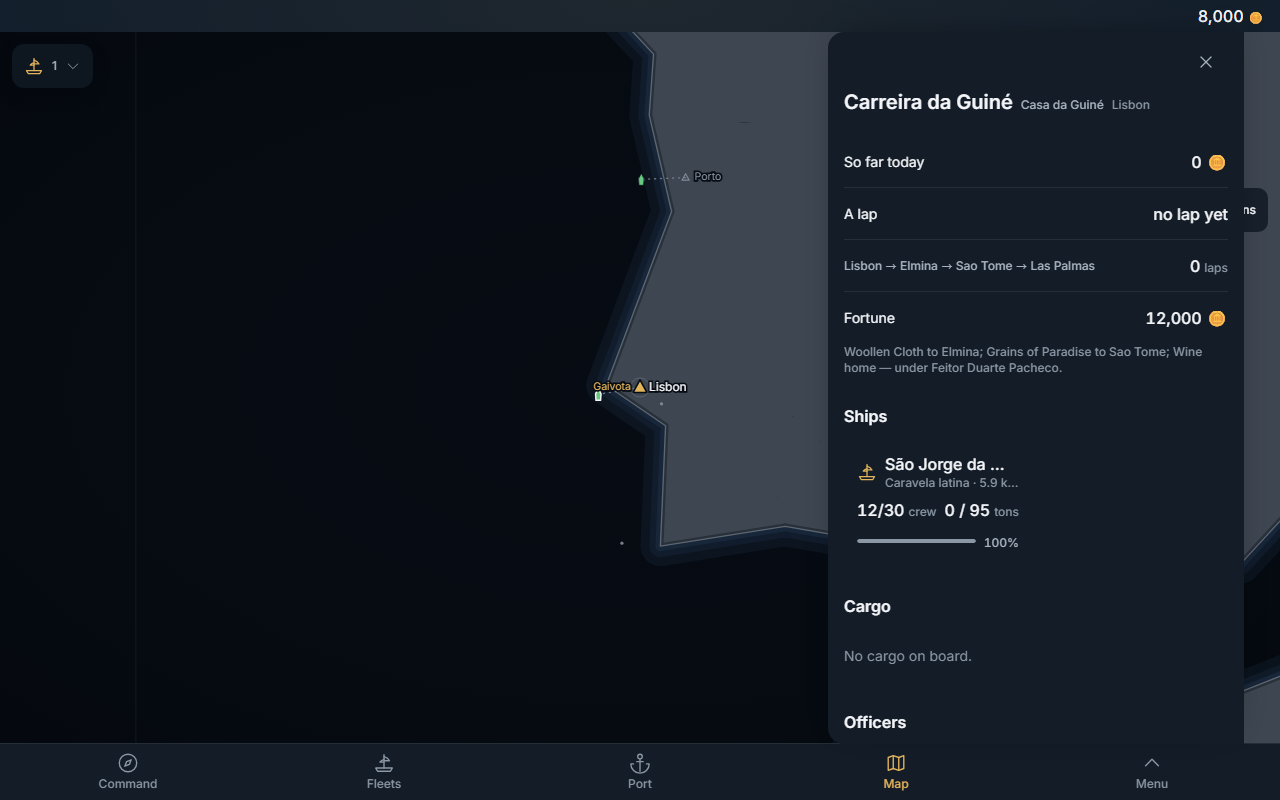
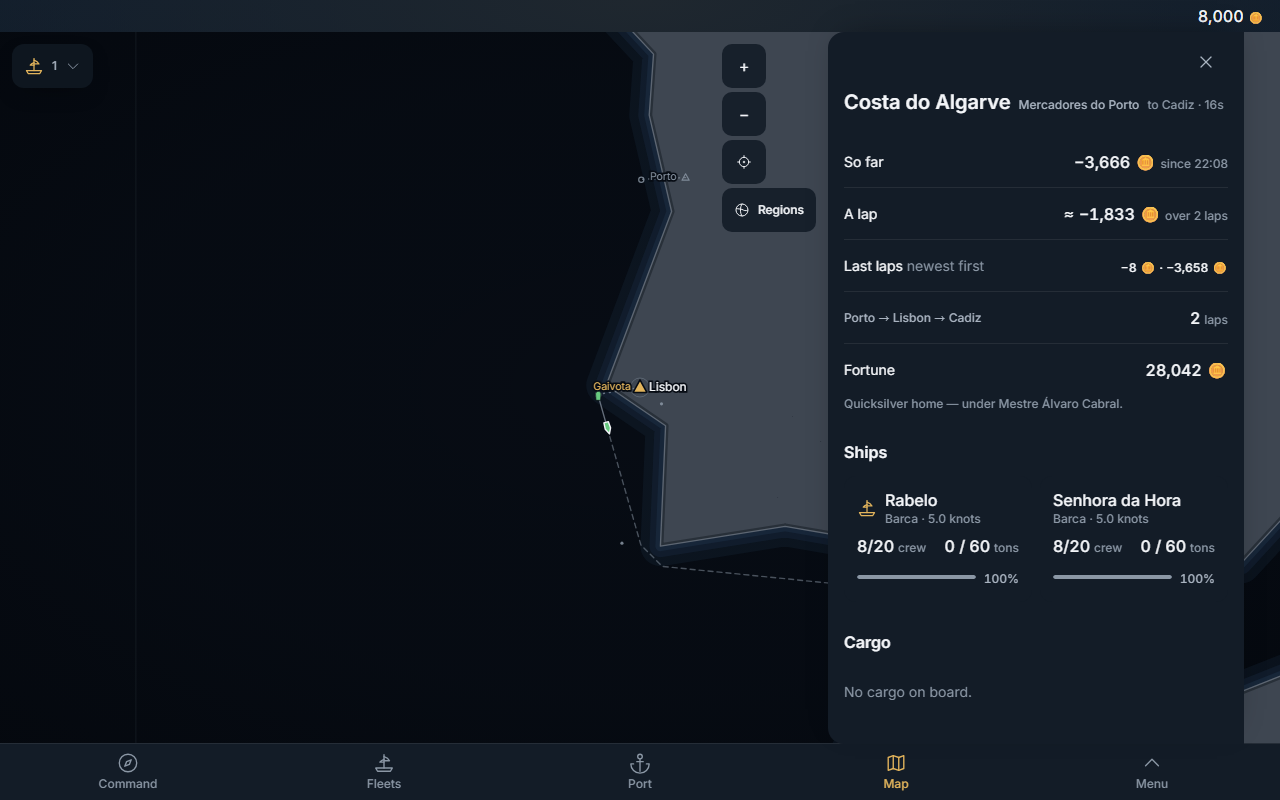
The merchant spec proves the new placement rules, and stops racing a moving hull
THREE NEW UNIT CLAIMS, each of which goes red on the code as it stood: the open merchant's POSITION
is the beat's and only her polyline comes from the card; a card that does not hold the served
segment lends nothing; merchants at one berth are fanned so all three can be opened, and a dot city
keeps the tap on its own mark.

A FLAKE, FOUND AND REMOVED. A hull at sea drifts every frame, so a click aimed at a box measured a
moment earlier can land beside her — and if she has drifted over one of YOUR fleets the chart gives
the tap to your fleet, which is correct behaviour and a race the suite lost about one run in five
(it opened `Gaivota · Lisbon`). The tap is aimed again at her new place, with whatever else it
selected closed first, instead of being asserted once and hoped for.

AND THE SCREENSHOTS SAY SOMETHING. The owner's reading of merchant-sheet-1280.png was that it showed
`0` and `no lap yet`. The fixture now warps SIX legs rather than three — three closed one lap, and
one lap is exactly what route_earnings refuses to average — and asserts that at least one route has
two closed laps; the spec opens a merchant whose sheet has a figure if any hull on the glass has.
Every shot is re-taken: the zoom column and Regions stand clear of the sheet at 1280, the handle's
focus ring is the handle's, `A lap ≈ … over 2 laps`, `So far · since 22:08`, `Last laps newest
first`.

10/10 against a vite preview of this build.
[…]

diff --git a/tests/map.merchants.spec.ts b/tests/map.merchants.spec.ts
@@ -73,13 +73,82 @@ test('merchants live in their own list and nothing about your fleets sees them',
   expect(traffic[1].berthCode).toBe('LIS')
   // NO TRACK for a merchant served the current segment only; one for the open merchant's full course
   expect(withTraffic.traffic[0].track).toBeNull()
-  const open = mapTrafficOf(rows, {
+  const openRows = [sailingRow('m-1', [[38.6, -9.4], [36, -12]], [37.1, -11.3]), dockedRow]
+  const open = mapTrafficOf(openRows, {
     id: 'm-1',
-    voyage: { ...rows[0].voyage!, id: 'v-1', course: [[38.6, -9.4], [36, -12], [32.6, -16.95]] },
+    voyage: { ...openRows[0].voyage!, course: [[38.6, -9.4], [36, -12], [32.6, -16.95]] },
   })
   const openModel = buildChartModel([OWN], [LIS, FNC], [], null, open)
   expect(openModel.traffic[0].track).not.toBeNull()
   expect(openModel.traffic[1].track).toBeNull()
+})
+
+// THE CARD LENDS A TRACK AND NEVER A POSITION. The card is re-asked on the beat and lands after it,
+// so a selected hull placed from the card's own voyage stepped BACKWARDS on every beat and then
+// leapt forward when the new card arrived (measured at 390: -25.2 / -20.0 / -6.5 px, each followed
+// ~70 ms later by a +20.9..+24.6 px leap; no unselected hull ever moved backwards). These two hold
+// the rule: the position is the beat's, the polyline may be the card's, and a card that does not
+// contain the served segment lends nothing at all.
+test('the open merchant takes her TRACK from the card and her POSITION from the beat', () => {
+  const row = sailingRow('m-1', [[38.6, -9.4], [36, -12]], [37.1, -11.3])
+  const stale = {
+    ...row.voyage!,
+    course: [[38.6, -9.4], [36, -12], [32.6, -16.95]] as [number, number][],
+    // the card is a beat behind AND further along: neither figure may reach the chart
+    position: { ...row.voyage!.position!, seg_index: 1, leg_frac: 0.8, lat: 34.2, lon: -14.1 },
+  }
+  const [m] = mapTrafficOf([row], { id: 'm-1', voyage: stale })
+  if (m.kind !== 'sailing') throw new Error('the probe merchant is at sea')
+  expect(m.voyage.at).toEqual({ lat: 37.1, lon: -11.3 })
+  expect(m.voyage.legFrac).toBe(0.25)
+  // the WHOLE course, with the served segment located inside it
+  expect(m.voyage.course).toHaveLength(3)
+  expect(m.voyage.segIndex).toBe(0)
+  const model = buildChartModel([OWN], [LIS, FNC], [], null, [m])
+  expect(model.traffic[0].at).toEqual({ lat: 37.1, lon: -11.3 })
+  expect(model.traffic[0].track).not.toBeNull()
+})
+
+test('a card that does not hold the served segment lends nothing', () => {
+  // she has moved on to the next leg; the card still carries the one before it
+  const row = sailingRow('m-1', [[36, -12], [32.6, -16.95]], [34, -14])
+  const behind = {
+    ...row.voyage!,
+    course: [[38.6, -9.4], [36, -12]] as [number, number][],
+    position: { ...row.voyage!.position!, lat: 38, lon: -10 },
+  }
+  const [m] = mapTrafficOf([row], { id: 'm-1', voyage: behind })
+  if (m.kind !== 'sailing') throw new Error('the probe merchant is at sea')
+  expect(m.voyage.course).toEqual([{ lat: 36, lon: -12 }, { lat: 32.6, lon: -16.95 }])
+  expect(m.voyage.at).toEqual({ lat: 34, lon: -14 })
+  expect(m.voyage.segIndex).toBe(0)
+})
+
+test('merchants lying at one berth are fanned, and the harbour keeps its own dot', () => {
+  const second: TrafficFleet = { ...dockedRow, id: 'm-dock-2', name: 'Prova Doca II' }
+  const third: TrafficFleet = { ...dockedRow, id: 'm-dock-3', name: 'Prova Doca III' }
+  const traffic = mapTrafficOf([dockedRow, second, third])
+  // the first lies exactly where the server put her; the others take their own places
+  expect(traffic.map((t) => t.berthIndex)).toEqual([0, 1, 2])
+  const at = traffic.map((t) => (t.kind === 'anchored' ? `${t.at.lat},${t.at.lon}` : 'sailing'))
+  expect(at[0]).toBe('38.6,-9.4')
+  expect(new Set(at).size).toBe(3)
+  // and each of the three can be opened from the chart, which a stack of three could not be
+  const model = buildChartModel([], [LIS, FNC], [], null, traffic)
+  const opened = new Set<string>()
+  for (const t of model.traffic) {
+    const hit = hitTest(model, [], project(t.at), 1)
+    if (hit?.kind === 'merchant') opened.add(hit.id)
+  }
+  expect(opened).toEqual(new Set(['m-dock', 'm-dock-2', 'm-dock-3']))
+  // THE DOT CITY KEEPS ITS TAP: Lisbon is drawn as a dot, a merchant is moored on it, and a tap on
+  // the mark opens the PORT — the hull answers only at the dot's own reach.
+  const onLisbon = mapTrafficOf([{ ...dockedRow, roadstead: [LIS.lat, LIS.lon] }])
+  const dotModel = buildChartModel([], [LIS, FNC], [], null, onLisbon)
+  expect(hitTest(dotModel, [], project({ lat: LIS.lat, lon: LIS.lon }), 40, [LIS], 20)).toEqual({
+    kind: 'port',
+    code: 'LIS',
+  })
 })
 
 test('an own fleet wins a tie with a merchant; a merchant wins over open water', () => {
@@ -115,29 +184,96 @@ async function merchantsInView(page: Page): Promise<{ total: number; inView: num
 
 
 /** A merchant hull whose centre is on the chart's glass, so a tap can land on it. */
-async function hullInView(page: Page, sailing: boolean | null): Promise<string> {
-  const id = await page.evaluate((wantSailing) => {
-    const chart = document.querySelector('[data-testid="map-chart"]')!.getBoundingClientRect()
-    for (const h of document.querySelectorAll('[data-testid="map-merchant"]')) {
-      if (wantSailing !== null && (h.getAttribute('data-merchant-docked') === 'false') !== wantSailing) continue
-      const r = h.getBoundingClientRect()
-      const cx = r.left + r.width / 2
-      const cy = r.top + r.height / 2
-      if (cx > chart.left + 60 && cx < chart.right - 120 && cy > chart.top + 100 && cy < chart.bottom - 120) {
-        return h.getAttribute('data-merchant-id')
+async function hullInView(page: Page, sailing: boolean | null, skip: ReadonlySet<string> = new Set()): Promise<string> {
+  const id = await page.evaluate(
+    ({ wantSailing, seen }) => {
+      const chart = document.querySelector('[data-testid="map-chart"]')!.getBoundingClientRect()
+      for (const h of document.querySelectorAll('[data-testid="map-merchant"]')) {
+        if (wantSailing !== null && (h.getAttribute('data-merchant-docked') === 'false') !== wantSailing) continue
+        const mid = h.getAttribute('data-merchant-id')
+        if (mid && seen.includes(mid)) continue
+        const r = h.getBoundingClientRect()
+        const cx = r.left + r.width / 2
+        const cy = r.top + r.height / 2
+        if (cx > chart.left + 60 && cx < chart.right - 120 && cy > chart.top + 100 && cy < chart.bottom - 120) {
+          return mid
+        }
       }
-    }
-    return null
-  }, sailing)
-  if (!id) throw new Error(`no ${sailing === null ? '' : sailing ? 'sailing ' : 'docked '}merchant hull on the glass`)
-  return id
+      return null
+    },
+    { wantSailing: sailing, seen: [...skip] },
+  )
+  if (!id && skip.size === 0) {
+    throw new Error(`no ${sailing === null ? '' : sailing ? 'sailing ' : 'docked '}merchant hull on the glass`)
+  }
+  return id ?? ''
 }
 
-/** Tap a merchant hull where it is drawn NOW (it drifts between frames). */
+/**
+ * Open a merchant the record can say something about — one with a LAP AVERAGE on her sheet.
+ *
+ * The owner read `docs/npc-traders/merchant-sheet-1280.png` on 2026-10-08 and found an earnings
+ * sheet showing `0` and `no lap yet`: a true reading of a merchant that had not finished anything,
+ * and a useless picture of the feature. The fixture warps a few legs, so WHICH merchants have laps
+ * behind them depends on their loops; this tries the hulls on the glass until one of them has a
+ * figure, and settles for the last one if none has (the shot is still taken, the test still
+ * passes — a screenshot is not an assertion).
+ *
+ * Returns the id that is open.
+ */
+async function openMerchantWorthReading(page: Page, sailing: boolean | null): Promise<string> {
+  const tried = new Set<string>()
+  let last = ''
+  for (let attempt = 1; attempt <= 3; attempt++) {
+    const id = await hullInView(page, sailing, tried)
+    if (!id) break
+    tried.add(id)
+    last = id
+    await tapHull(page, id)
+    await expect(page.getByTestId('merchant-sheet-body')).toBeVisible({ timeout: 60_000 })
+    const lap = await page.getByTestId('merchant-earnings-lap').textContent()
+    // a lap average is printed as `≈ <figure>`; the two absences say so in words
+    if (lap && lap.includes('≈')) return id
+    // Only give this one up for a candidate that EXISTS: closing the sheet and then finding nothing
+    // else on the glass would leave the caller with no sheet at all, which is how this helper went
+    // red on its first run.
+    if (attempt === 3 || !(await hullInView(page, sailing, tried))) break
+    const close = page.getByTestId('tray-close')
+    if (await close.isVisible().catch(() => false)) await close.click()
+  }
+  if (!last) throw new Error('no merchant hull on the glass to open')
+  // Whatever the path above took, the caller is handed an OPEN sheet.
+  if (!(await page.getByTestId('merchant-sheet').isVisible().catch(() => false))) await tapHull(page, last)
+  await expect(page.getByTestId('merchant-sheet-body')).toBeVisible({ timeout: 60_000 })
+  return last
+}
+
+/**
+ * Tap a merchant hull where it is drawn NOW, and PROVE the tap landed on her.
+ *
+ * A hull at sea drifts every frame, so a click aimed at a box measured a moment ago can land beside
+ * her — and if she has drifted over one of YOUR fleets, the chart gives the tap to your fleet by its
+ * own tie rule (hitTest.ts: an own fleet wins a tie). That is correct behaviour and a race this
+ * suite used to lose about one run in five, opening `Gaivota · Lisbon` instead of the sheet. So the
+ * tap is AIMED AGAIN at her new place, with whatever else it selected closed first, instead of
+ * being asserted once and hoped for.
+ */
 async function tapHull(page: Page, id: string): Promise<void> {
-  const box = await page.locator(`[data-merchant-id="${id}"]`).boundingBox()
-  if (!box) throw new Error('the hull has no box')
-  await page.mouse.click(box.x + box.width / 2, box.y + box.height / 2)
+  const sheet = page.getByTestId('merchant-sheet')
+  for (let aim = 1; aim <= 6; aim++) {
+    const box = await page.locator(`[data-merchant-id="${id}"]`).boundingBox()
+    if (!box) throw new Error(`merchant ${id} has no hull on the glass`)
+    await page.mouse.click(box.x + box.width / 2, box.y + box.height / 2)
+    try {
+      await sheet.waitFor({ state: 'visible', timeout: 3_000 })
+      return
+    } catch {
+      // something else took the tap: close it, and aim at where she is now.
+      const close = page.getByTestId('tray-close')
+      if (await close.isVisible().catch(() => false)) await close.click()
+    }
+  }
+  throw new Error(`six taps at merchant ${id} never opened her sheet`)
 }
 
 test('the merchants sail on the chart, and a tap opens a read-only sheet', async ({ page, request, baseURL }) => {
@@ -160,8 +296,9 @@ test('the merchants sail on the chart, and a tap opens a read-only sheet', async
   const t0 = await hull.getAttribute('transform')
   await expect.poll(async () => hull.getAttribute('transform'), { timeout: 30_000 }).not.toBe(t0)
 
-  // A TAP OPENS THE SHEET — and never the player's own fleet tray.
-  await tapHull(page, sailingId)
+  // A TAP OPENS THE SHEET — and never the player's own fleet tray. The merchant opened is one with
+  // something in her books if any hull on the glass has (the shots below are the feature's record).
+  await openMerchantWorthReading(page, true)
   const sheet = page.getByTestId('merchant-sheet')
   await expect(sheet).toBeVisible({ timeout: 30_000 })
   await expect(page.getByTestId('map-detail-tray')).toHaveCount(0)
@@ -225,9 +362,9 @@ test.describe('wide', () => {
     await ready(page)
     await expect.poll(async () => (await merchantsInView(page)).inView, { timeout: 60_000 }).toBeGreaterThanOrEqual(2)
     await page.screenshot({ path: path.join(SHOTS, 'map-merchants-1280.png') })
-    // the wide frame sits close on Lisbon: whichever merchant is on the glass, at sea or at anchor
-    await tapHull(page, await hullInView(page, null))
-    await expect(page.getByTestId('merchant-sheet-body')).toBeVisible({ timeout: 60_000 })
+    // the wide frame sits close on Lisbon: whichever merchant is on the glass, at sea or at anchor —
+    // preferring one whose sheet has a lap figure to show (see openMerchantWorthReading)
+    await openMerchantWorthReading(page, null)
     await page.waitForTimeout(800)
     await page.screenshot({ path: path.join(SHOTS, 'merchant-sheet-1280.png') })
   })

diff --git a/tests/npcOn.fixture.ts b/tests/npcOn.fixture.ts
@@ -47,12 +47,16 @@ export async function npcOn(): Promise<Buffer> {
     // same lever proof 12 uses), so the page opens on merchants mid-passage with laps behind them.
     await pg.exec(`update public.standing_routes sr set laps_per_game_day = 0
                      from public.players p where p.id = sr.player_id and p.is_npc`)
-    // Three legs: enough for the short loops to close a lap on a fresh market, few enough that no
-    // sink is glutted by laps that, rewound, took no time at all (the market regenerates in real
-    // time, and a warp that regenerated it too would rewrite every market row and swell the image
-    // the page must load — measured: 170 MB against the shipped 9 MB). The daily cap rolls over per
-    // leg, as a real leg's hours would roll it.
-    for (let i = 1; i <= 3; i++) {
+    // SIX legs, not three (2026-10-10). Three let the short loops close ONE lap, and one closed lap
+    // is exactly what `public.route_earnings` refuses to average — a lap closes on arrival home
+    // BEFORE the home sale, so lap 1 is a purchase with no sale (NPC_TRADERS §7.4). Every screenshot
+    // this fixture fed therefore read `A lap: first lap under way`, which is the honest answer and a
+    // useless picture of the feature the owner asked for. Six legs close a second lap on the
+    // three-stop loops. Still few enough that the market is not rewritten: the sinks are not
+    // regenerated by a warp that takes no time (a warp that regenerated them too would rewrite every
+    // market row and swell the image the page must load — measured: 170 MB against the shipped 9 MB).
+    // The daily cap rolls over per leg, as a real leg's hours would roll it.
+    for (let i = 1; i <= 6; i++) {
       await pg.exec(`
         update public.voyages v set departed_at = v.departed_at - (v.eta - now()) - interval '1 minute', eta = now() - interval '1 minute'
           from public.fleets f join public.players p on p.id = f.player_id and p.is_npc
@@ -66,6 +70,14 @@ export async function npcOn(): Promise<Buffer> {
       `select count(*)::int as n from public.standing_route_laps x join public.npc_fleets nf on nf.route_id = x.route_id where x.closed_at is not null`,
     )
     if (laps.rows[0].n < 5) throw new Error(`the warp closed only ${laps.rows[0].n} merchant laps`)
+    // AND AT LEAST ONE MERCHANT HAS A LAP AVERAGE TO SHOW, which needs two closed laps on one route:
+    // the thing the screenshots are taken for.
+    const twice = await pg.query<{ n: number }>(
+      `select count(*)::int as n from (select x.route_id from public.standing_route_laps x
+         join public.npc_fleets nf on nf.route_id = x.route_id
+        where x.closed_at is not null group by x.route_id having count(*) >= 2) y`,
+    )
+    if (twice.rows[0].n < 1) throw new Error('the warp left no merchant route with two closed laps')
     npcOnImage = Buffer.from(await (await pg.dumpDataDir('gzip')).arrayBuffer())
   } finally {
     await pg.close()
